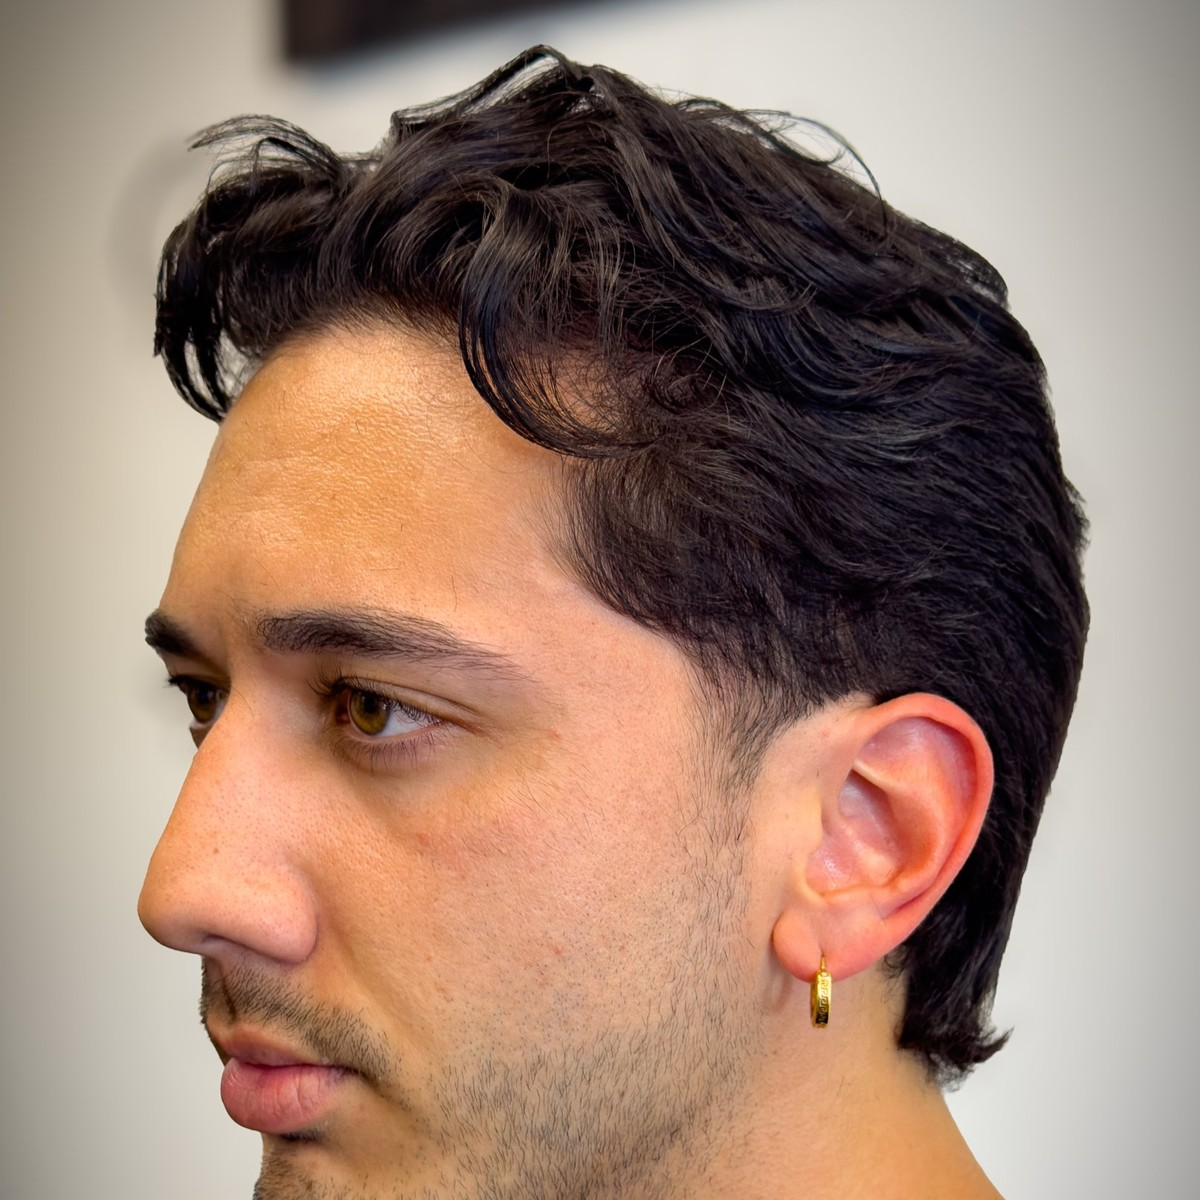
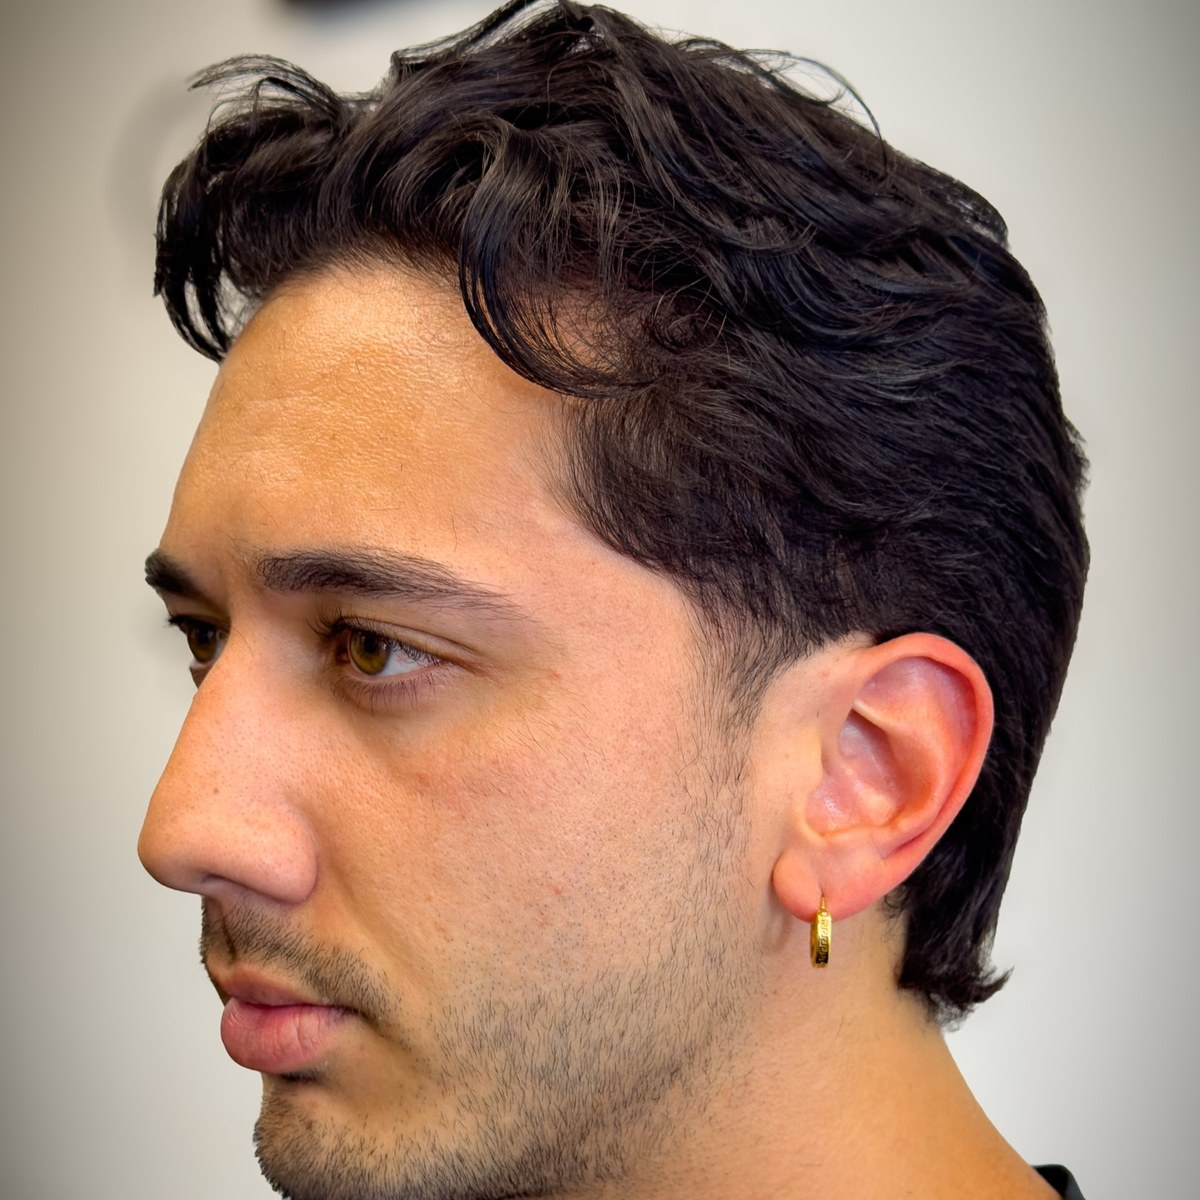
Flow page: lead with new flow haircut photo; add ad image
Claude-Session: https://claude.ai/code/session_01QEBK6Qnz19RuPp24x5TGdt

diff --git a/services/flow-haircuts/index.html b/services/flow-haircuts/index.html
@@ -12,8 +12,8 @@
 <meta property="og:title" content="Men&#x27;s Flow Haircuts &amp; Layered Cuts in Annapolis, MD | Salon Polo">
 <meta property="og:description" content="Men&#x27;s flow haircuts and layered, texturized scissor cuts in Annapolis, MD. Not a traditional barbershop: stylists and a barber who cut with shears. Book online.">
 <meta property="og:url" content="https://www.salonpolo.com/services/flow-haircuts/">
-<meta property="og:image" content="https://www.salonpolo.com/assets/img/work/scissor.jpg">
-<meta property="og:image:alt" content="All-scissor layered men&#x27;s cut with natural movement">
+<meta property="og:image" content="https://www.salonpolo.com/assets/img/work/flow.jpg">
+<meta property="og:image:alt" content="Men&#x27;s flow haircut with soft layers and natural wave, shaped with shears">
 <meta name="twitter:card" content="summary_large_image">
 <meta name="theme-color" content="#FBFAF8">
 <link rel="icon" type="image/png" sizes="32x32" href="../../assets/favicon-32.png">
@@ -191,9 +191,9 @@
     <p class="eyebrow">The Work</p>
     <h2>From <em>our chairs.</em></h2>
     <div class="shots" style="margin-top:36px;grid-template-columns:repeat(3,1fr);">
+      <figure><img src="../../assets/img/work/flow.jpg" alt="Men's flow haircut with soft layers and natural wave, shaped with shears" width="1100" height="1100" loading="lazy" decoding="async"></figure>
       <figure><img src="../../assets/img/work/scissor.jpg" alt="All-scissor layered men's cut with natural movement" width="1100" height="1098" loading="lazy" decoding="async"></figure>
       <figure><img src="../../assets/img/work/wavy.jpg" style="object-position: 50% 0%" alt="Men's textured cut with natural waves and a soft, longer back" width="700" height="1490" loading="lazy" decoding="async"></figure>
-      <figure><img src="../../assets/img/work/waves.jpg" alt="Men's medium-length cut with natural waves swept back" width="1100" height="1100" loading="lazy" decoding="async"></figure>
     </div>
   </div>
 </section>

diff --git a/_src/build.py b/_src/build.py
@@ -98,7 +98,7 @@ SERVICES = [
         "menu": ["Medium length dry cut", "Long dry cut"],
         "who": ["alexis", "amber", "colette"],
         "who_note": {"amber": "Cuts every length", "alexis": "Cuts every length", "colette": "Flows &amp; medium-length cuts"},
-        "photos": ["scissor", "wavy", "waves"],
+        "photos": ["flow", "scissor", "wavy"],
     },
     {
         "slug": "skin-fades",
@@ -321,6 +321,7 @@ WORK = [  # (file, alt, w, h, css class, inline style)
     ("colette", "Barber Colette finishing a short fade on a smiling guest", 1600, 800, "wide", ""),
 ]
 WK = {w[0]: w for w in WORK}
+WK["flow"] = ("flow", "Men's flow haircut with soft layers and natural wave, shaped with shears", 1100, 1100, "", "")  # flow page only, not in home gallery
 
 # --------------------------------------------------------------------------
 # Structured data helpers
